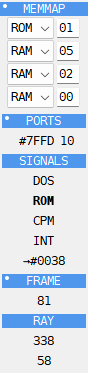
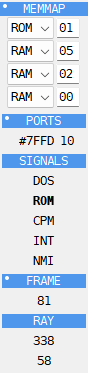
manual: SIGNALS has NMI; where an INT goes is the tip of INT

Changed region(s): [[0.2727, 0.6783, 0.75, 0.7078]]

diff --git a/docs/manual/debugger-memmap.md b/docs/manual/debugger-memmap.md
@@ -34,26 +34,25 @@ port is used.
 ```{index} SIGNALS
 ```
 
-**SIGNALS** are four words that are bold while the signal is on:
+**SIGNALS** are five words that are bold while the signal is on:
 
 - **DOS** - the TR-DOS ROM is switched in;
 - **ROM** - the ROM bit of port `7FFD` is set; on a 128K that is the 48K BASIC ROM;
 - **CPM** - the machine is in its CP/M mode;
-- **INT** - the CPU takes an interrupt on its next step: an NMI, or an INT while
-  interrupts are enabled and not held off by EI.
+- **INT** - the CPU takes an INT on its next step: interrupts are enabled and not held off
+  by EI;
+- **NMI** - the CPU takes an NMI on its next step, and calls `#0066`. An NMI comes before
+  an INT.
 
 ```{index} interrupt; where it goes, IM 2 table
 ```
 
-Under **INT** is where an INT goes now, as `→#8282`: in IM 1 `#0038`, in IM 2 the address
-in the table at I * 256 + the byte on the bus, in IM 0 the address of the RST on the bus
-(`→ ?` when that byte is no RST, `→ -` when no INT can come). Rest the mouse on it for how
-it is worked out; on a machine with several interrupt sources (TSConf's frame, line and DMA,
-the Next's in its hardware IM 2) the tip has a line for each source that is on, and the panel
-shows the one waiting, or else the first by priority. With an NMI waiting the line reads
-`NMI→#0066`: the CPU takes the NMI first.
+Rest the mouse on **INT** to see where an INT goes now: in IM 1 `#0038`, in IM 2 the address
+in the table at I * 256 + the byte on the bus, in IM 0 the RST on the bus. On a machine with
+several interrupt sources (TSConf's frame, line and DMA, the Next's in its hardware IM 2) the
+tip has a line for each source that is on, the one waiting first.
 
-A `*` after the address warns that the IM 2 table at I * 256 is not one byte repeated 257
+A `*` after an address warns that the IM 2 table at I * 256 is not one byte repeated 257
 times. Nothing drives the bus when a ZX Spectrum takes an INT, so it reads #FF - unless an
 interface puts another byte there, and then the CPU jumps elsewhere. The ZX Evolution puts
 the byte on the bus itself, and so does the Next unless its expansion bus is on, so the `*`

diff --git a/docs/manual/debugger-cpu.md b/docs/manual/debugger-cpu.md
@@ -20,7 +20,7 @@ lights up on its own; with **Split pairs** off it is one number, `  511`. PC and
 wide as a pair, and IM as one byte of it; every number stands at the right of its field.
 
 Rest the mouse on **IM**, **IFF1** or **IFF2** for what it is. The tip of **IM** also says
-where an INT goes now, as the line under **INT** in the side panel does (see
+where an INT goes now, as the tip of **INT** in the side panel does (see
 [MEMMAP panel](debugger-memmap.md)).
 
 ## Changing registers
